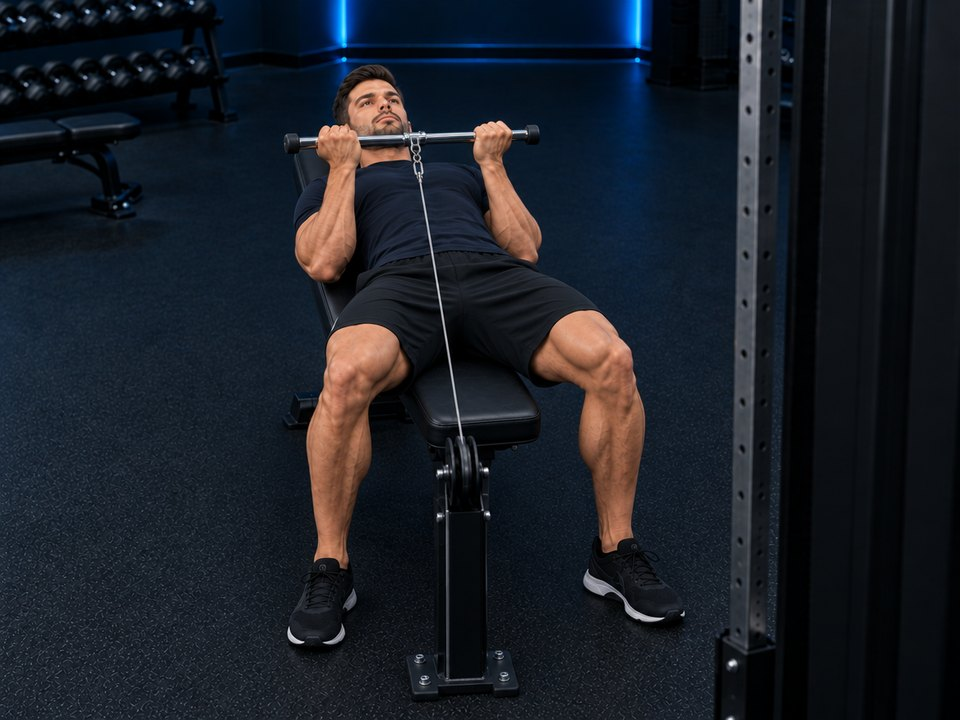
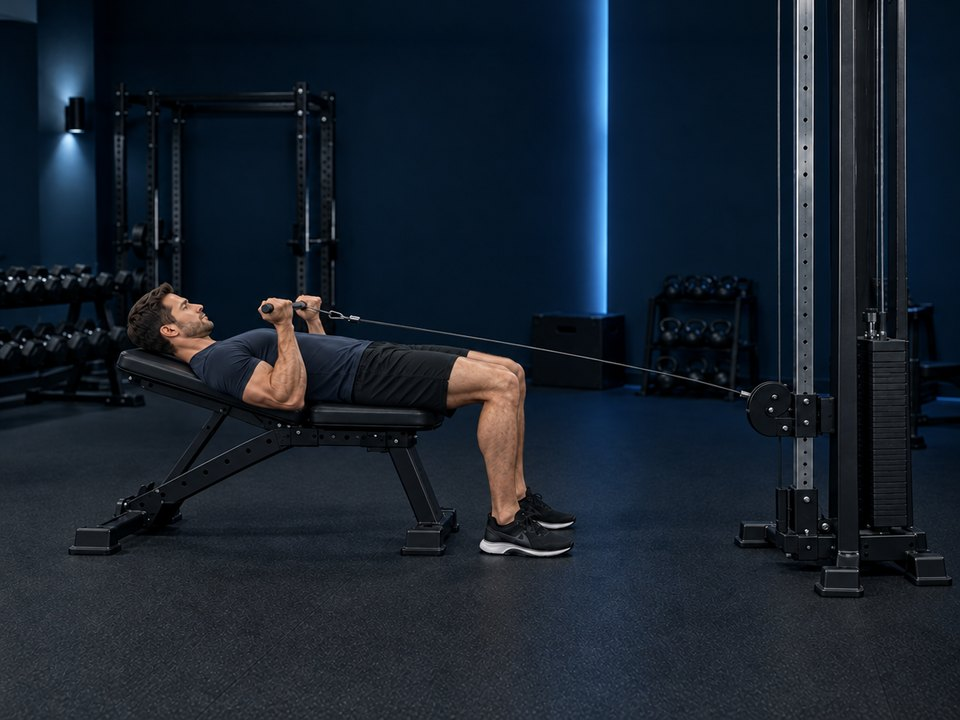
Bizeps Curl liegend am Kabel: Foto von der Seite, Anatomie und Gerät geprüft
Die Fassung davor hatte Beine, die am Rücken ansetzten, und eine Rolle an
der Bank. Neu erzeugt in hoher Qualität, mit eigenem Kabelturm, Rolle auf
Bankhöhe und flacher Lehne. Prüfliste für Fotos in CLAUDE.md.

Claude-Session: https://claude.ai/code/session_01MPv65TyRWfLE6TBM7iE6xk

diff --git a/apps/pwa/sw.js b/apps/pwa/sw.js
@@ -6,7 +6,7 @@
  * ist der einzige Weg, den Nutzer zu erreichen, waehrend die App geschlossen
  * ist. Siehe workers/push.
  */
-const CACHE = "daevo-v127";
+const CACHE = "daevo-v128";
 const ASSETS = [
   "./",
   "./index.html",

diff --git a/CLAUDE.md b/CLAUDE.md
@@ -274,20 +274,21 @@ Strichfiguren, keine Clip Art, keine Karten mit Rahmen um Text.
   oben nach unten, Kickback einbeinig und seitlich für den Gluteus medius. Auf
   der Schrägbank mit Kurzhanteln Rudern eng und breit, Reverse Fly und
   Fliegende.
-- Bizeps Curl liegend am Kabel, `curl-kabel-liegend`: flache Bank vor dem
-  Turm, Rolle auf Bankhöhe, rücklings mit den Füßen zum Turm, die Stange aus
-  gestreckten Armen zum Kinn, Ellbogen bleiben am Körper, Untergriff wie beim
-  stehenden Curl, Bank leicht schräg. Das Foto ist schräg von oben am Fußende
-  aufgenommen: die Stange liegt dort quer im Bild, das Kabel läuft gerade aus
-  ihrer Mitte zwischen den Knien zur Rolle auf Bankhöhe, und man sieht die
-  Handrücken, also den Untergriff. Das Bildmodell läuft ohne Angabe auf
-  `quality: low`, und genau dort entstand ein Mann mit drei Beinen, den
-  erst der Nutzer sah. Fotos immer mit `quality: high` erzeugen und vor dem
-  Einbauen Arme und Beine zählen. In der Seitenansicht und schräg vom Kopfende legte das
-  Bildmodell die Stange in acht von acht Fassungen längs zum Körper und
-  hängte das Kabel an ein Ende. Die erste Fassung von der Kopfseite zeigte
-  den Griff wie einen Obergriff. Vorlage für die Haltung war das Video von
-  Coach Aaron, gezeigt wird ein anderes Modell.
+- Bizeps Curl liegend am Kabel, `curl-kabel-liegend`: Bank ganz leicht
+  schräg, Kabelturm frei davor, Rolle auf Höhe des Bankpolsters, rücklings
+  mit den Füßen zum Turm, die Stange aus gestreckten Armen zum Kinn,
+  Ellbogen bleiben am Körper, Untergriff wie beim stehenden Curl. Das Foto
+  ist von der Seite. Zwei Fassungen davor hat der Nutzer zurückgewiesen:
+  einmal ein drittes Bein, einmal Beine, die am Rücken ansetzten, und eine
+  Rolle, die an der Bank hing. Beides kam aus Bearbeitungen eines Bildes,
+  das den Fehler schon trug, und aus `quality: low`, der Voreinstellung des
+  Bildmodells. Jetzt: neu erzeugen statt ein fehlerhaftes Bild bearbeiten,
+  immer `quality: high`, und vor dem Einbauen nach Liste prüfen. Eine
+  Person, zwei Arme, zwei Beine, die an der Hüfte ansetzen, zwei Füße.
+  Jedes Gerät steht für sich und hängt nicht an einem anderen. Kabel gerade
+  von der Rolle zum Griff, Rolle auf der verlangten Höhe. Stange quer zum
+  Körper, Griff wie verlangt, Gelenkwinkel möglich. Vorlage für die Haltung
+  war das Video von Coach Aaron, gezeigt wird ein anderes Modell.
 - Fotos an der Multipresse oder mit Langhantel werden von vorn oder schräg
   vorn erzeugt. In der Seitenansicht legte das Bildmodell die Stange bei sechs
   von sieben Übungen längs zum Körper statt quer über Schultern, Brust oder
